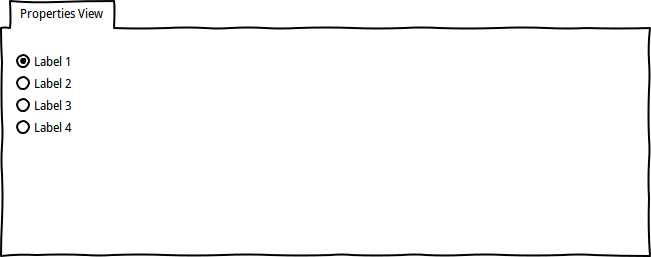
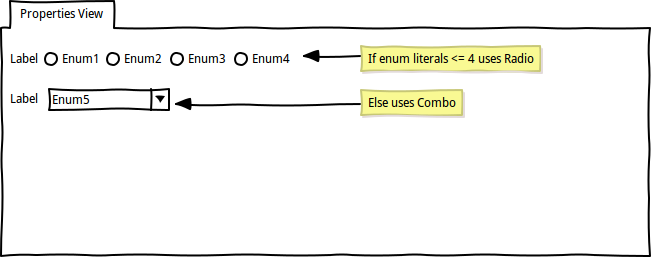
Update default behavior specification

Changed region(s): [[0.0, 0.1556, 0.8602, 0.4669], [0.0, 0.4669, 0.1229, 0.5292]]

diff --git a/_specifications/default-behavior.md b/_specifications/default-behavior.md
@@ -30,7 +30,7 @@ The following table defines how each structural features will be represented by 
 |  EByte             | Text                     |
 |  EByteArray        | Text                     |
 |  EBoolean          | Checkbox                 |
-|  EEnum             | Radio                    |
+|  EEnum             | Radio or Combo           |
 |  EDate             | DatePicker               |
 |  EList             | MultipleValuesEditor     |
 | Many EAttributes   | MultipleValuesEditor     |
